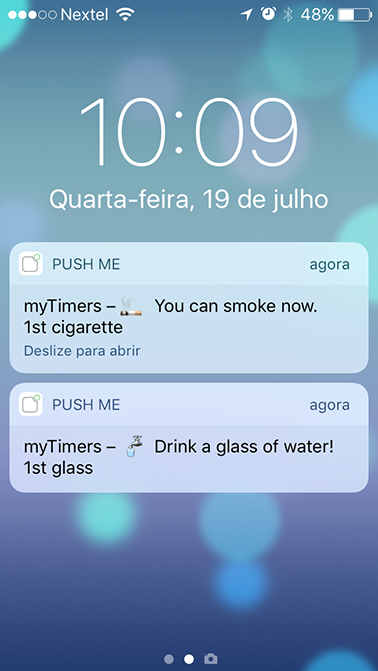
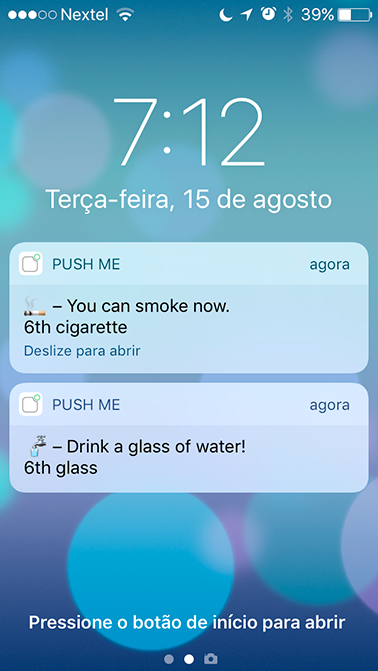
[test] Mocha tests created, individual timer token

diff --git a/test/timerModel.js b/test/timerModel.js
@@ -1,0 +1,49 @@
+// /* eslint no-undef: 0 */
+const assert = require('chai').assert;
+const path = require('path');
+const TimerModel = require('../src/models/TimerModel');
+
+
+describe('TimerModel', () => {
+  describe('constructor()', () => {
+    it('should merge object with default', (done) => {
+      const folder = './timers';
+      const filePath = path.join(folder, 'smoke.json');
+      new TimerModel(filePath)
+        .then((model) => {
+          assert.equal(model.fileName, 'smoke');
+          assert.equal(model.title, 'Smoke time');
+          assert.isObject(model.media);
+          assert.isArray(model.reminders);
+          done();
+        })
+        .catch((err) => {
+          done(err || new Error('Model not created'));
+        });
+    });
+    it('should ignore default.json', (done) => {
+      const folder = './timers';
+      const filePath = path.join(folder, 'default.json');
+      new TimerModel(filePath)
+        .then(() => {
+          done(new Error('Model should not be created'));
+        })
+        .catch((err) => {
+          assert.isUndefined(err, 'Undefined error');
+          done();
+        });
+    });
+    it('should ignore non .json files', (done) => {
+      const folder = './timers';
+      const filePath = path.join(folder, 'ignore.txt');
+      new TimerModel(filePath)
+        .then(() => {
+          done(new Error('Model should not be created'));
+        })
+        .catch((err) => {
+          assert.isUndefined(err, 'Undefined error');
+          done();
+        });
+    });
+  });
+});

diff --git a/test/defaultTimerModel.js b/test/defaultTimerModel.js
@@ -1,0 +1,30 @@
+// /* eslint no-undef: 0 */
+const assert = require('chai').assert;
+const path = require('path');
+const DefaultTimerModel = require('../src/models/DefaultTimerModel');
+const TimerModel = require('../src/models/TimerModel');
+
+describe('DefaultTimerModel', () => {
+  describe('constructor()', () => {
+    it('should return singleton to avoid loading file more than once', () => {
+      const default1 = new DefaultTimerModel();
+      const default2 = new DefaultTimerModel();
+      assert.equal(default1.startTime, default2.startTime);
+    });
+  });
+  describe('merge(timer)', () => {
+    it('should merge object with default', (done) => {
+      const folder = './timers';
+      const filePath = path.join(folder, 'smoke.json');
+      new TimerModel(filePath)
+        .then((model) => {
+          assert.notEqual(model.title, 'Remember');
+          assert.notEqual(model.message, '🍰 The cake is a lie');
+          done();
+        })
+        .catch((err) => {
+          done(err || new Error('Model not created'));
+        });
+    });
+  });
+});

diff --git a/src/index.js b/src/index.js
@@ -3,7 +3,7 @@ const fs = require('fs');
 const Status = require('./views/Status');
 const Timer = require('./controllers/Timer');
 const TimerModel = require('./models/TimerModel');
-// const CronModel = require('./models/CronModel');
+const path = require('path');
 const Time = require('./helpers/Time');
 const chalk = require('chalk');
 
@@ -14,10 +14,11 @@ debug(chalk.black.bgYellow('start: ', time.getStart()));
 /**
  * Initiate the process, reading each JSON in 'timers' folder
  */
-const folder = debug.enabled ? './timers-debug' : './timers';
+const folder = debug.enabled ? './test/timers' : './timers';
 fs.readdirSync(folder)
   .forEach((file) => {
-    new TimerModel(file)
+    const filePath = path.join(folder, file);
+    new TimerModel(filePath)
       .then(timerData => new Timer(timerData))
       .then((timer) => {
         timer.start();

diff --git a/src/models/TimerModel.js b/src/models/TimerModel.js
@@ -55,15 +55,13 @@ function setCronTable() {
 class TimerModel {
   constructor(fileName) {
     return new Promise((resolve, reject) => {
-      if (fileName === 'default.json' || path.extname(fileName) !== '.json') {
+      if (path.basename(fileName) === 'default.json' || path.extname(fileName) !== '.json') {
         debug(chalk.bgBlue(fileName, 'rejected'));
-        reject(false);
+        // const error = new Error(false);
+        reject();
       } else {
         debug(chalk.bgBlue(fileName, 'accepted'));
-        const timersFolder = debug.enabled ? './timers-debug' : './timers';
-        const filePath = path.join(timersFolder, fileName);
-
-        fs.readFile(filePath, 'utf8', (err, data) => {
+        fs.readFile(fileName, 'utf8', (err, data) => {
           if (err) {
             reject(err);
           } else {

diff --git a/src/views/Phone.js b/src/views/Phone.js
@@ -16,12 +16,12 @@ class Phone {
    * @method display
    * @param  {String} message Message of the alert
    */
-  static display(message) {
-    if (!process.env.PUSH_ME_TOKEN) {
+  static display(message, token) {
+    if (!(process.env.PUSH_ME_TOKEN || token)) {
       Status.error(chalk.red('ERROR: PUSH_ME_TOKEN is not defined. Mobile notification can\'t be send.'));
     } else {
       const form = {
-        token: process.env.PUSH_ME_TOKEN,
+        token: token || process.env.PUSH_ME_TOKEN,
         title: message,
       };
       const formData = qs.stringify(form);

diff --git a/src/models/DefaultTimerModel.js b/src/models/DefaultTimerModel.js
@@ -21,10 +21,10 @@ class DefaultTimerModel {
     if (!instance) {
       instance = this;
     }
-    const timersFolder = debug.enabled ? './timers-debug' : './timers';
+    const timersFolder = debug.enabled ? './test/timers' : './timers';
     const defaultPath = path.join(timersFolder, 'default.json');
     const defaultTimer = JSON.parse(fs.readFileSync(defaultPath), 'utf8');
-
+    this.startTime = new Date();
     this.timer = defaultTimer;
 
     return instance;

diff --git a/src/views/Alert.js b/src/views/Alert.js
@@ -42,7 +42,7 @@ class Alert {
 
     if (phone) {
       const phoneMessage = `${timer.message}\n${Format.ordinal(displayCounter)} ${timer.name}`;
-      Phone.display(phoneMessage);
+      Phone.display(phoneMessage, timer.token);
     }
   }
 }

diff --git a/README.md b/README.md
@@ -1,4 +1,4 @@
-![](https://github.com/russoedu/smoke-and-the-water/blob/master/README/smoke-and-the-water.jpg?raw=true)
+![](https://github.com/russoedu/smoke-and-the-water/blob/master/README/smoke-and-the-water.png?raw=true)
 
 [![dependencies Status](https://david-dm.org/russoedu/smoke-and-the-water/status.svg)](https://david-dm.org/russoedu/smoke-and-the-water)
 [![devDependencies Status](https://david-dm.org/russoedu/smoke-and-the-water/dev-status.svg)](https://david-dm.org/russoedu/smoke-and-the-water?type=dev)
@@ -31,6 +31,7 @@ You should set:
 | **quantity**  | Number | the number of times you want this to be repeated |
 | **reminders** | Array  | list with the repeat timers in "hh:mm:ss" format. If you have less timers than the number you set in `quantity`, the rest of the reminders will be distributed until the `endTime`. The time must use `hh:mm:ss` format. |
 | **media**     | Object | object to define where the alerts should be displayed. **If none is set**, not even in the default `.json`, **only terminal alert will be displayed**. |
+|token          | String | Optional token that can be set for each timer individually |
 
 Example:
 
@@ -52,6 +53,7 @@ Example:
     "computer": true,
     "phone": true
   },
+  "token": "PushMe-App-Token"
 }
 ```
 
@@ -59,6 +61,8 @@ Example:
 To use the mobile push you need to install the app [Push Me](http://pushme.jagcesar.se) and get your key. In the app, click on the key to copy to the clipboard.
 
 Then you need to copy or rename the `.env.example` file to `.env` and insert your key.
+
+You can also set an separeted token for each timer, so each one has it's own name in the app end in the push notification.
 
 
 ## Usage
@@ -72,9 +76,13 @@ Finaly, run `npm start` and the app will run, alerting you in the computer and o
 ## Example
 ### Desktop alert
 ![Alert example](https://github.com/russoedu/smoke-and-the-water/blob/master/README/alert.png?raw=true)
+
 ### Mobile push
+
 ![Alert example](https://github.com/russoedu/smoke-and-the-water/blob/master/README/mobile.png?raw=true)
+
 ### Terminal message
+
 ![Alert example](https://github.com/russoedu/smoke-and-the-water/blob/master/README/terminal.png?raw=true)
 
 ## TODO
@@ -88,6 +96,7 @@ Finaly, run `npm start` and the app will run, alerting you in the computer and o
 - ~~Make sure `quantity` is smaller than the length of `reminders`.~~
 - ~~Look for performance issues.~~
 - ~~Let user define the first alert instead of setting when the app starts~~
+- ~~Individual push tokens for each timer~~
 
 ### Nice to have
 
